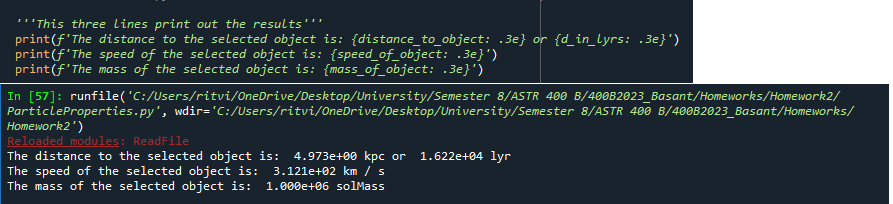
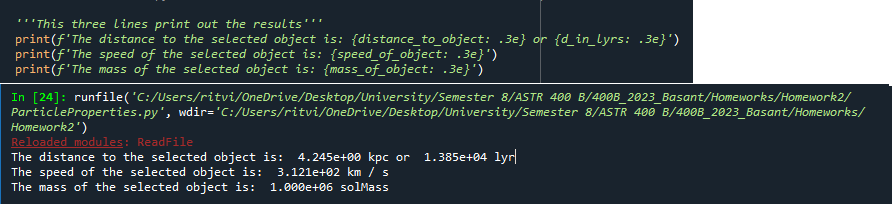
Fixed one typo error in ParticleProperties code.
I was squaring the index in y distance instead of the distance itself.

Changed region(s): [[0.0, 0.4412, 0.9675, 0.9412], [0.9978, 0.4118, 1.0, 1.0]]

diff --git a/Homeworks/Homework2/ParticleProperties.py b/Homeworks/Homework2/ParticleProperties.py
@@ -64,7 +64,7 @@ def ParticleInfo(file_name, par_type, particle_number):
     par_no = particle_number - 1
     # This variable converts the particle number into the appropriate index for the data file and then stores it.
     
-    distance_to_object = np.round((np.sqrt((x[par_no]**2) + (y[par_no**2]) + (z[par_no]**2))), 3) * u.kpc
+    distance_to_object = np.round((np.sqrt((x[par_no]**2) + (y[par_no]**2) + (z[par_no]**2))), 3) * u.kpc
     # Calculates the total 3-D distance of the given particle by adding the squares of distances in x, y, and z and 
     # then taking the square root. It then stores it as in units of kpc using astropy. It is roundedto 3 decimal 
     # places. 
